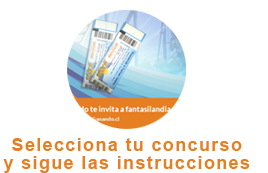
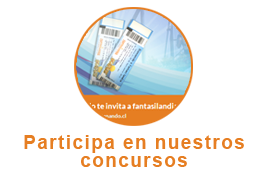
cambios imagenes baner y se borran archivos que no se utilizan

Changed region(s): [[0.2388, 0.0289, 0.7463, 0.7514], [0.0, 0.7803, 0.9254, 1.0]]

diff --git a/style/main.css b/style/main.css
@@ -17,12 +17,59 @@ html, body {
 .footer, .push {
 	height: 130px; /* .push must be the same height as .footer */
 }
+.align-center
+{
+	text-align: center;
+}
 
 
 @font-face {
     font-family: 'ganandofont'; /*a name to be used later*/
     src: url('../fonts/walibi-holland.ttf'); /*URL to font*/
 }
+
+/* Estilo imagenes baner home*/
+
+
+#banner-container
+{
+	width: 800px; 
+	display:inline-block;
+}
+
+#left-banner
+{
+	width: 28%; 
+	display: inline-block; 
+	text-align: left;
+}
+
+#right-banner
+{
+	width: 28%; 
+	display: inline-block; 
+	text-align: right;
+}
+
+#center-banner
+{
+	margin-left: 7%; 
+	margin-right: 7%; 
+	width: 28%; 
+	display: inline-block; 
+	text-align: center;
+}
+
+.banner
+{
+	opacity: 0.9;
+}
+
+.banner:hover
+{
+	opacity: 1;
+}
+
 
 /* Estilo navbar*/
 

diff --git a/application/views/template.php b/application/views/template.php
@@ -43,11 +43,10 @@
 
 	<link rel="icon" type="image/png" href="<?php echo HOME ?>/favicon.ico">
 
-	<link href="<?php echo base_url()?>style/main.css?v=1.4" rel="stylesheet">
+	<link href="<?php echo base_url()?>style/main.css?v=1.5" rel="stylesheet">
 	<link href="<?php echo base_url()?>style/bootstrap.css" rel="stylesheet">
 	<link href="<?php echo base_url()?>style/flat-ui.css" rel="stylesheet">
 	<link href="<?php echo base_url()?>style/chosen.css" rel="stylesheet"/>
-	<link href="<?php echo base_url()?>style/jquery.countdown.css" rel="stylesheet"/>
 	<link href="//ajax.googleapis.com/ajax/libs/jqueryui/1.10.1/themes/base/jquery-ui.css" rel="stylesheet"/>
 
 
@@ -67,12 +66,11 @@
 	</div>
 
 	<script src="//ajax.googleapis.com/ajax/libs/jquery/1.10.2/jquery.min.js"></script>	
-	<script src="//www.youtube.com/iframe_api"></script>	
 	<script src="//ajax.googleapis.com/ajax/libs/jqueryui/1.10.3/jquery-ui.min.js"></script> 
 	<script src="<?php echo base_url()?>js/chosen.jquery.min.js" type="text/javascript"></script>
 	<script src="//netdna.bootstrapcdn.com/twitter-bootstrap/2.3.1/js/bootstrap.min.js"></script>	
-	<script src="<?php echo base_url()?>js/jquery.ba-resize.js" type="text/javascript"></script>
 	<script src="<?php echo base_url()?>js/jquery.countdown.js" type="text/javascript"></script>
+	
 	<div class="wrapper">	
 		<div id="fb-root"></div>
 		<div id="header">
@@ -86,24 +84,26 @@
 				if(isset($ganando_promo))
 				{ 
 			?>
-					<div style="text-align:center;">
-						<div style="width: 800px; display:inline-block">
-							
+					<div class="align-center">
+						<div id="banner-container">
+	
 							<img src="<?php echo base_url().'img/home_header.png'?>">
 							
-							<div style="width: 24%; display: inline-block; text-align: left;">
+							<div class="banner" id="left-banner">
 								<a href="<?php echo HOME."/user/fb_login"?>">
-									<img style="width:100%;" src="<?php echo HOME.'/img/bg1.png?v=1.0'?>"/>
+									<img src="<?php echo HOME.'/img/bg1.png?v=1.1'?>"/>
 								</a>
 							</div>
-							<div style="margin-left: 8%; margin-right: 9%; width: 30%; display: inline-block; text-align: center;">
-								<a href="#" onclick=" if($(window).width() < 930) $('body,html').animate({ scrollTop: 800 }, 600); else $('body,html').animate({ scrollTop: 400 }, 600); ">
-									<img style="width:100%;" src="<?php echo HOME.'/img/bg2.png?v=1.0'?>"/>
+							<div class="banner"  id="center-banner">
+								<a href="#" onclick=" $('body,html').animate({ scrollTop: 500 }, 600); ">
+									<img src="<?php echo HOME.'/img/bg2.png?v=1.1'?>"/>
 								</a>
 
 							</div>
-							<div style="width: 28%; display: inline-block; text-align: right;">
-								<img style="width:100%;" src="<?php echo HOME.'/img/bg3.png?v=1.0'?>"/>
+							<div class="banner" id="right-banner">
+								<a href="https://twitter.com/ganandocl" target="_blank" >
+									<img src="<?php echo HOME.'/img/bg3.png?v=1.1'?>"/>
+								</a>
 							</div>
 						</div>
 					</div>

diff --git a/application/views/home/what_is.php b/application/views/home/what_is.php
@@ -1,3 +1,4 @@
+<script src="//www.youtube.com/iframe_api"></script>	
 <script type="text/javascript">
 	if($(window).width() < 930){
 		
